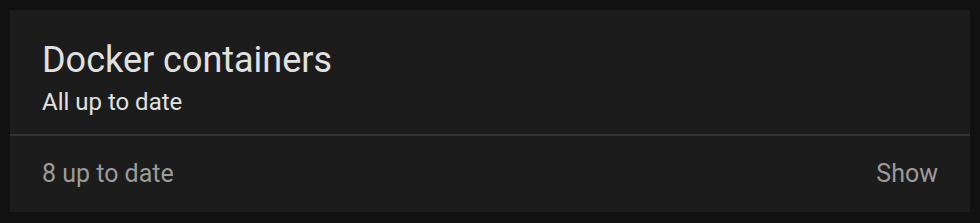
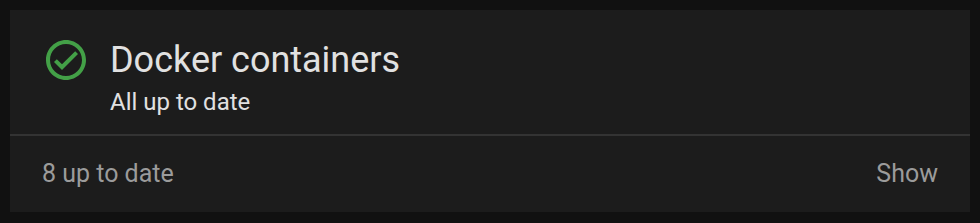
Put a check before the title while nothing waits, align the status line under it, and wrap the empty view's lines

Changed region(s): [[0.0306, 0.1614, 0.4286, 0.3767], [0.0306, 0.4036, 0.2755, 0.5112]]

diff --git a/src/wud-queue-card.ts b/src/wud-queue-card.ts
@@ -432,6 +432,7 @@ export class WudQueueCard extends LitElement {
         return html`
             <ha-card style=${this.cardStyle()} class=${this.cardClass()}>
                 <div class="hd">
+                    ${pendingUnits.length === 0 ? html`<ha-icon class="hd-icon" icon="mdi:check-circle-outline"></ha-icon>` : nothing}
                     <div class="hd-title" title=${title}>${title}</div>
                     ${queue ? this.queueAction(queue, pendingUnits, followed) : nothing}
                 </div>
@@ -979,6 +980,12 @@ export class WudQueueCard extends LitElement {
                     background: var(--error-color, #db4437);
                 }
 
+                /* A check before the title while nothing waits, as in updates-card. */
+                .hd-icon {
+                    flex: none;
+                    color: var(--success-color, #43a047);
+                }
+
                 .hd-title {
                     flex: 1 1 auto;
                     min-width: 0;
@@ -992,6 +999,11 @@ export class WudQueueCard extends LitElement {
                     padding: 0 16px;
                     font-size: 12px;
                     color: var(--primary-text-color);
+                }
+
+                /* Under the check, the status line starts where the title does: the header's padding, the icon and the gap. */
+                .hd:has(.hd-icon) + .hd-sub {
+                    padding-left: 50px;
                 }
 
                 .message {
@@ -1307,6 +1319,10 @@ export class WudQueueCard extends LitElement {
                         padding-right: 10px;
                     }
 
+                    .hd:has(.hd-icon) + .hd-sub {
+                        padding-left: 42px;
+                    }
+
                     .proj-body {
                         margin-left: 22px;
                     }
@@ -1438,9 +1454,10 @@ export class WudQueueCard extends LitElement {
                     max-width: 100%;
                 }
 
+                /* A line wraps rather than cut short, its icon by its first line, as the room scrolls when they don't fit. */
                 .idle-line {
                     display: flex;
-                    align-items: center;
+                    align-items: flex-start;
                     gap: 6px;
                     max-width: 100%;
                     font-size: 12px;
@@ -1454,9 +1471,7 @@ export class WudQueueCard extends LitElement {
 
                 .idle-line span {
                     min-width: 0;
-                    white-space: nowrap;
-                    overflow: hidden;
-                    text-overflow: ellipsis;
+                    overflow-wrap: anywhere;
                 }
 
                 /* The rows the card fills, and the spare room above the list, change along with a slide, not on ha-card's own timing. */

diff --git a/dist/wud-queue-card.js b/dist/wud-queue-card.js
@@ -1498,6 +1498,7 @@ var WudQueueCard = class extends i4 {
     return b2`
             <ha-card style=${this.cardStyle()} class=${this.cardClass()}>
                 <div class="hd">
+                    ${pendingUnits.length === 0 ? b2`<ha-icon class="hd-icon" icon="mdi:check-circle-outline"></ha-icon>` : A}
                     <div class="hd-title" title=${title}>${title}</div>
                     ${queue ? this.queueAction(queue, pendingUnits, followed) : A}
                 </div>
@@ -1949,6 +1950,12 @@ var WudQueueCard = class extends i4 {
                     background: var(--error-color, #db4437);
                 }
 
+                /* A check before the title while nothing waits, as in updates-card. */
+                .hd-icon {
+                    flex: none;
+                    color: var(--success-color, #43a047);
+                }
+
                 .hd-title {
                     flex: 1 1 auto;
                     min-width: 0;
@@ -1962,6 +1969,11 @@ var WudQueueCard = class extends i4 {
                     padding: 0 16px;
                     font-size: 12px;
                     color: var(--primary-text-color);
+                }
+
+                /* Under the check, the status line starts where the title does: the header's padding, the icon and the gap. */
+                .hd:has(.hd-icon) + .hd-sub {
+                    padding-left: 50px;
                 }
 
                 .message {
@@ -2277,6 +2289,10 @@ var WudQueueCard = class extends i4 {
                         padding-right: 10px;
                     }
 
+                    .hd:has(.hd-icon) + .hd-sub {
+                        padding-left: 42px;
+                    }
+
                     .proj-body {
                         margin-left: 22px;
                     }
@@ -2408,9 +2424,10 @@ var WudQueueCard = class extends i4 {
                     max-width: 100%;
                 }
 
+                /* A line wraps rather than cut short, its icon by its first line, as the room scrolls when they don't fit. */
                 .idle-line {
                     display: flex;
-                    align-items: center;
+                    align-items: flex-start;
                     gap: 6px;
                     max-width: 100%;
                     font-size: 12px;
@@ -2424,9 +2441,7 @@ var WudQueueCard = class extends i4 {
 
                 .idle-line span {
                     min-width: 0;
-                    white-space: nowrap;
-                    overflow: hidden;
-                    text-overflow: ellipsis;
+                    overflow-wrap: anywhere;
                 }
 
                 /* The rows the card fills, and the spare room above the list, change along with a slide, not on ha-card's own timing. */

diff --git a/tests/size.test.ts b/tests/size.test.ts
@@ -126,6 +126,16 @@ describe("the height the list ends at once its sections have slid", () => {
     });
 });
 
+describe("the header's check", () => {
+    it.each([
+        ["shows while nothing waits, as in updates-card", quiet, true],
+        ["is gone while an update waits", sample, false],
+    ])("%s", async (_name, list, shown) => {
+        const element = await card(hass(list()));
+        expect(one(element, ".hd .hd-icon")?.getAttribute("icon") ?? null).toBe(shown ? "mdi:check-circle-outline" : null);
+    });
+});
+
 describe("filling the rows of a sections view", () => {
     /** The card's parts given their boxes, rows filled, and the card's style returned. */
     async function filled(element: WudQueueCard, theme = false): Promise<string> {

diff --git a/README.md b/README.md
@@ -107,7 +107,7 @@ says that updates are available or that everything is up to date. Then come the 
 Each WUD watcher is a Docker host of its own, and its projects are kept apart from the other hosts' even when they
 share a name. When the card shows several watchers, each project's name is followed by its watcher's.
 
-When nothing is waiting, the card is just the title and a line that opens the up-to-date list. When the first update
+When nothing is waiting, the card is just the title, with a check before it, and a line that opens the up-to-date list. When the first update
 comes in, the waiting list opens by itself, even if the up-to-date list was open.
 
 <img src="https://raw.githubusercontent.com/jesmak/wud-queue-card/main/docs/images/all-current-light.png#gh-light-mode-only" width="490" alt="A card with all containers up to date, folded into a single line">
